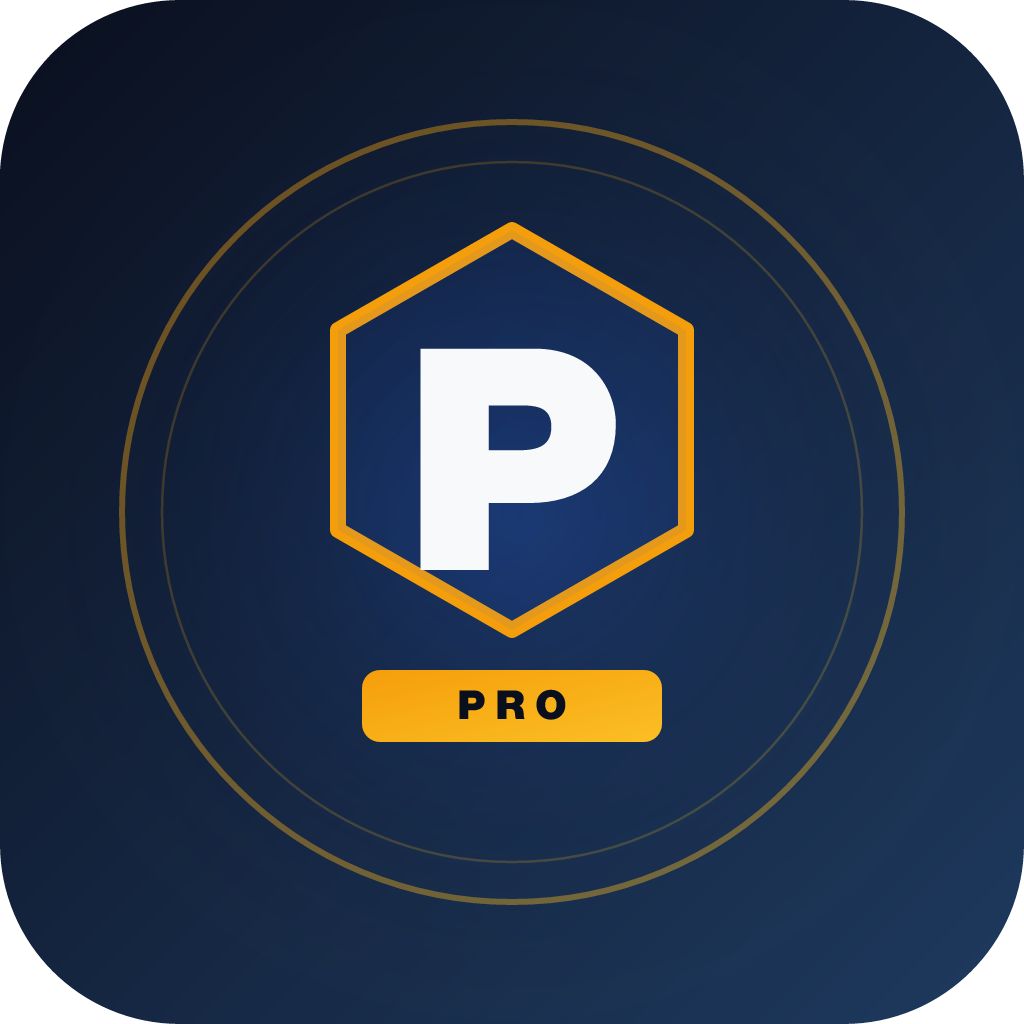
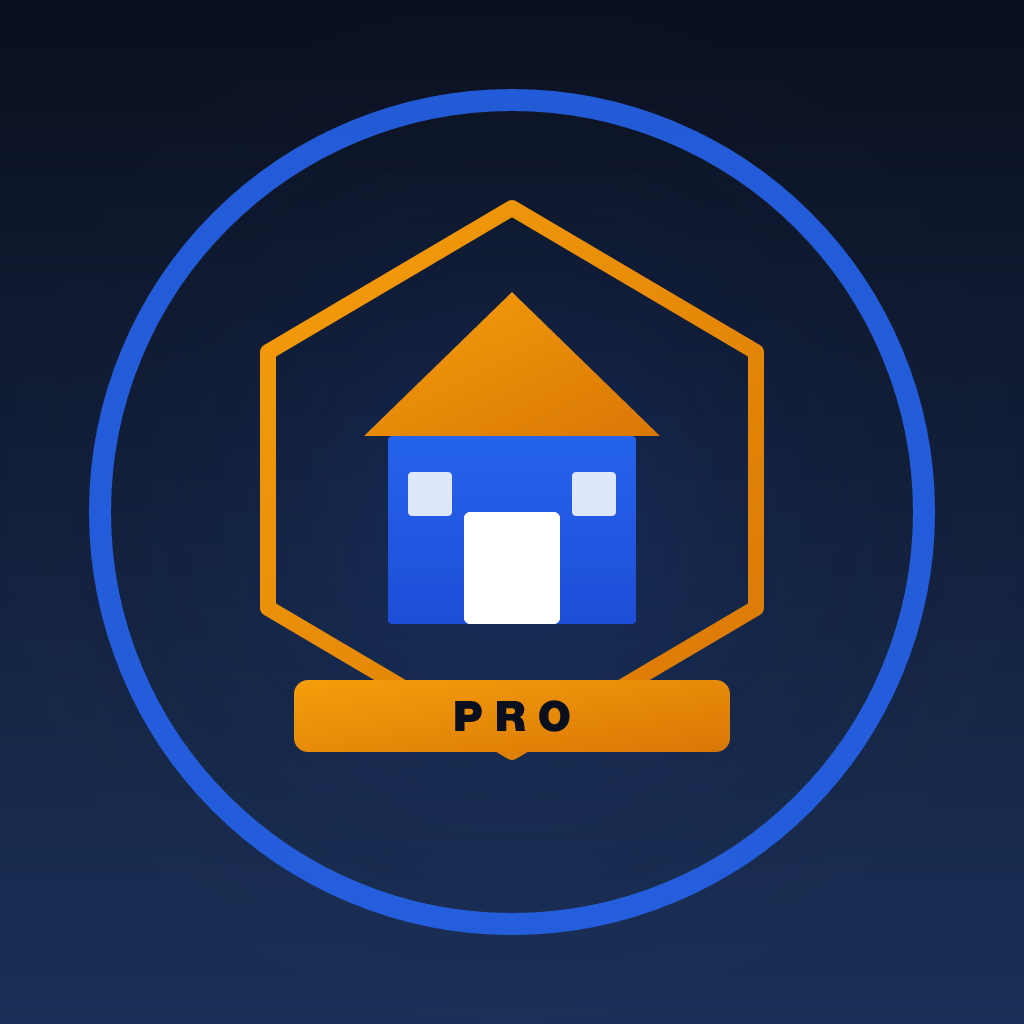
feat: icone unique ServiZein Pro App Store

diff --git a/scripts/convert-icon-v2.js b/scripts/convert-icon-v2.js
@@ -1,0 +1,20 @@
+const { Resvg } = require('@resvg/resvg-js');
+const fs = require('fs');
+const path = require('path');
+
+const svgPath = path.join(__dirname, '..', 'assets', 'icon_v2_source.svg');
+const outPath = path.join(__dirname, '..', 'assets', 'icon.png');
+
+const svg = fs.readFileSync(svgPath, 'utf-8');
+
+const resvg = new Resvg(svg, {
+  fitTo: { mode: 'width', value: 1024 },
+});
+
+const pngData = resvg.render();
+const pngBuffer = pngData.asPng();
+
+fs.writeFileSync(outPath, pngBuffer);
+
+const stats = fs.statSync(outPath);
+console.log(`icon.png written — ${(stats.size / 1024).toFixed(1)} KB`);